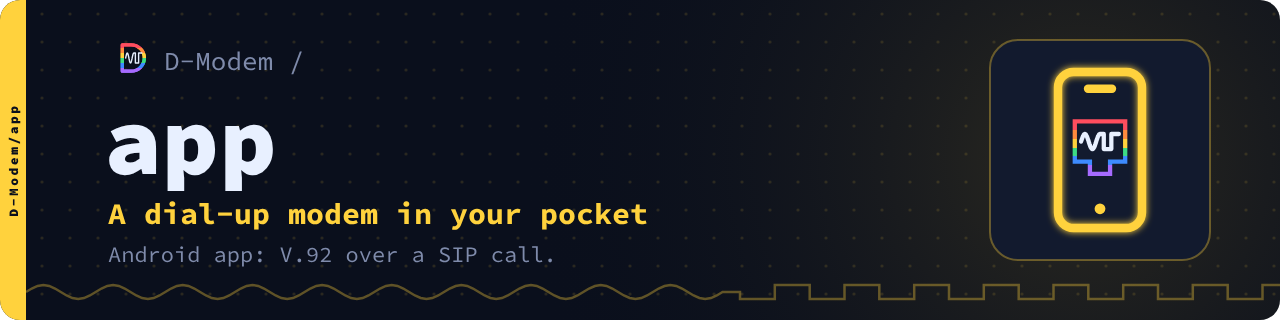
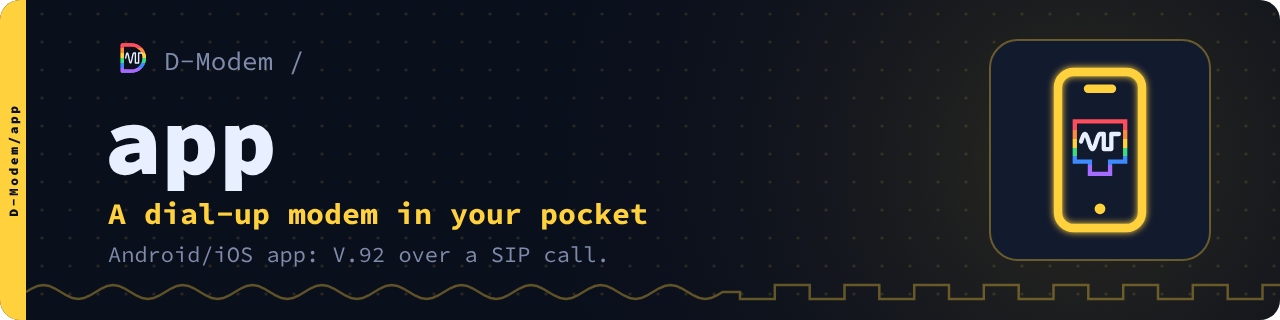
Change the app tagline to "Android/iOS app: V.92 over a SIP call."
Claude-Session: https://claude.ai/code/session_01B82eRRRzmaL25iPFFavgq5

Changed region(s): [[0.1562, 0.75, 0.4688, 0.8438]]

diff --git a/tools/gen.py b/tools/gen.py
@@ -16,7 +16,7 @@ REPOS = {
                      tag="V.92 softmodem over SIP", sub="Cross-platform engine. V.92 / V.90 / V.34 / fax.",
                      chips=["C++", "SIP", "Asterisk", "FreeSWITCH"]),
     "app":      dict(book="Yellow", color=BOOK["Yellow"][1], icon="phone",
-                     tag="A dial-up modem in your pocket", sub="Android app: V.92 over a SIP call.",
+                     tag="A dial-up modem in your pocket", sub="Android/iOS app: V.92 over a SIP call.",
                      chips=["Android", "Kotlin", "NDK", "V.92"]),
     "hardware": dict(book="Orange", color=BOOK["Orange"][1], icon="chip",
                      tag="Open source hardware modem designs", sub="pico-serial: RP2040 serial and phone-line USB sticks.",

diff --git a/docs/reference.md b/docs/reference.md
@@ -11,7 +11,7 @@ The Rainbow Book of each repository is its accent: on its banner, its social pre
 | repository | Book | colour | icon | tagline | second line | tags |
 |---|---|---|---|---|---|---|
 | `D-Modem` | Red (CD-DA) | <span class="suite-swatch" style="background:#ff4d5e"></span> `#ff4d5e` | `wave` | V.92 softmodem over SIP | Cross-platform engine. V.92 / V.90 / V.34 / fax. | C++, SIP, Asterisk, FreeSWITCH |
-| `app` | Yellow (CD-ROM) | <span class="suite-swatch" style="background:#ffd23d"></span> `#ffd23d` | `phone` | A dial-up modem in your pocket | Android app: V.92 over a SIP call. | Android, Kotlin, NDK, V.92 |
+| `app` | Yellow (CD-ROM) | <span class="suite-swatch" style="background:#ffd23d"></span> `#ffd23d` | `phone` | A dial-up modem in your pocket | Android/iOS app: V.92 over a SIP call. | Android, Kotlin, NDK, V.92 |
 | `hardware` | Orange (CD-R/RW) | <span class="suite-swatch" style="background:#ff8a3d"></span> `#ff8a3d` | `chip` | Open source hardware modem designs | pico-serial: RP2040 serial and phone-line USB sticks. | RP2040, DB25, USB-C, CERN-OHL-S |
 | `bbs` | Blue (CD Extra) | <span class="suite-swatch" style="background:#3d8bff"></span> `#3d8bff` | `bbs` | A bulletin board for every caller | Telnet, TN3270 and modem callers, in Go. | Go, ANSI, TN3270, Doors |
 | `go3270` | Purple (DDCD) | <span class="suite-swatch" style="background:#a66bff"></span> `#a66bff` | `3270` | Go servers for 3270 terminals | Build TN3270 data streams from fields. | Go, TN3270, EBCDIC |
